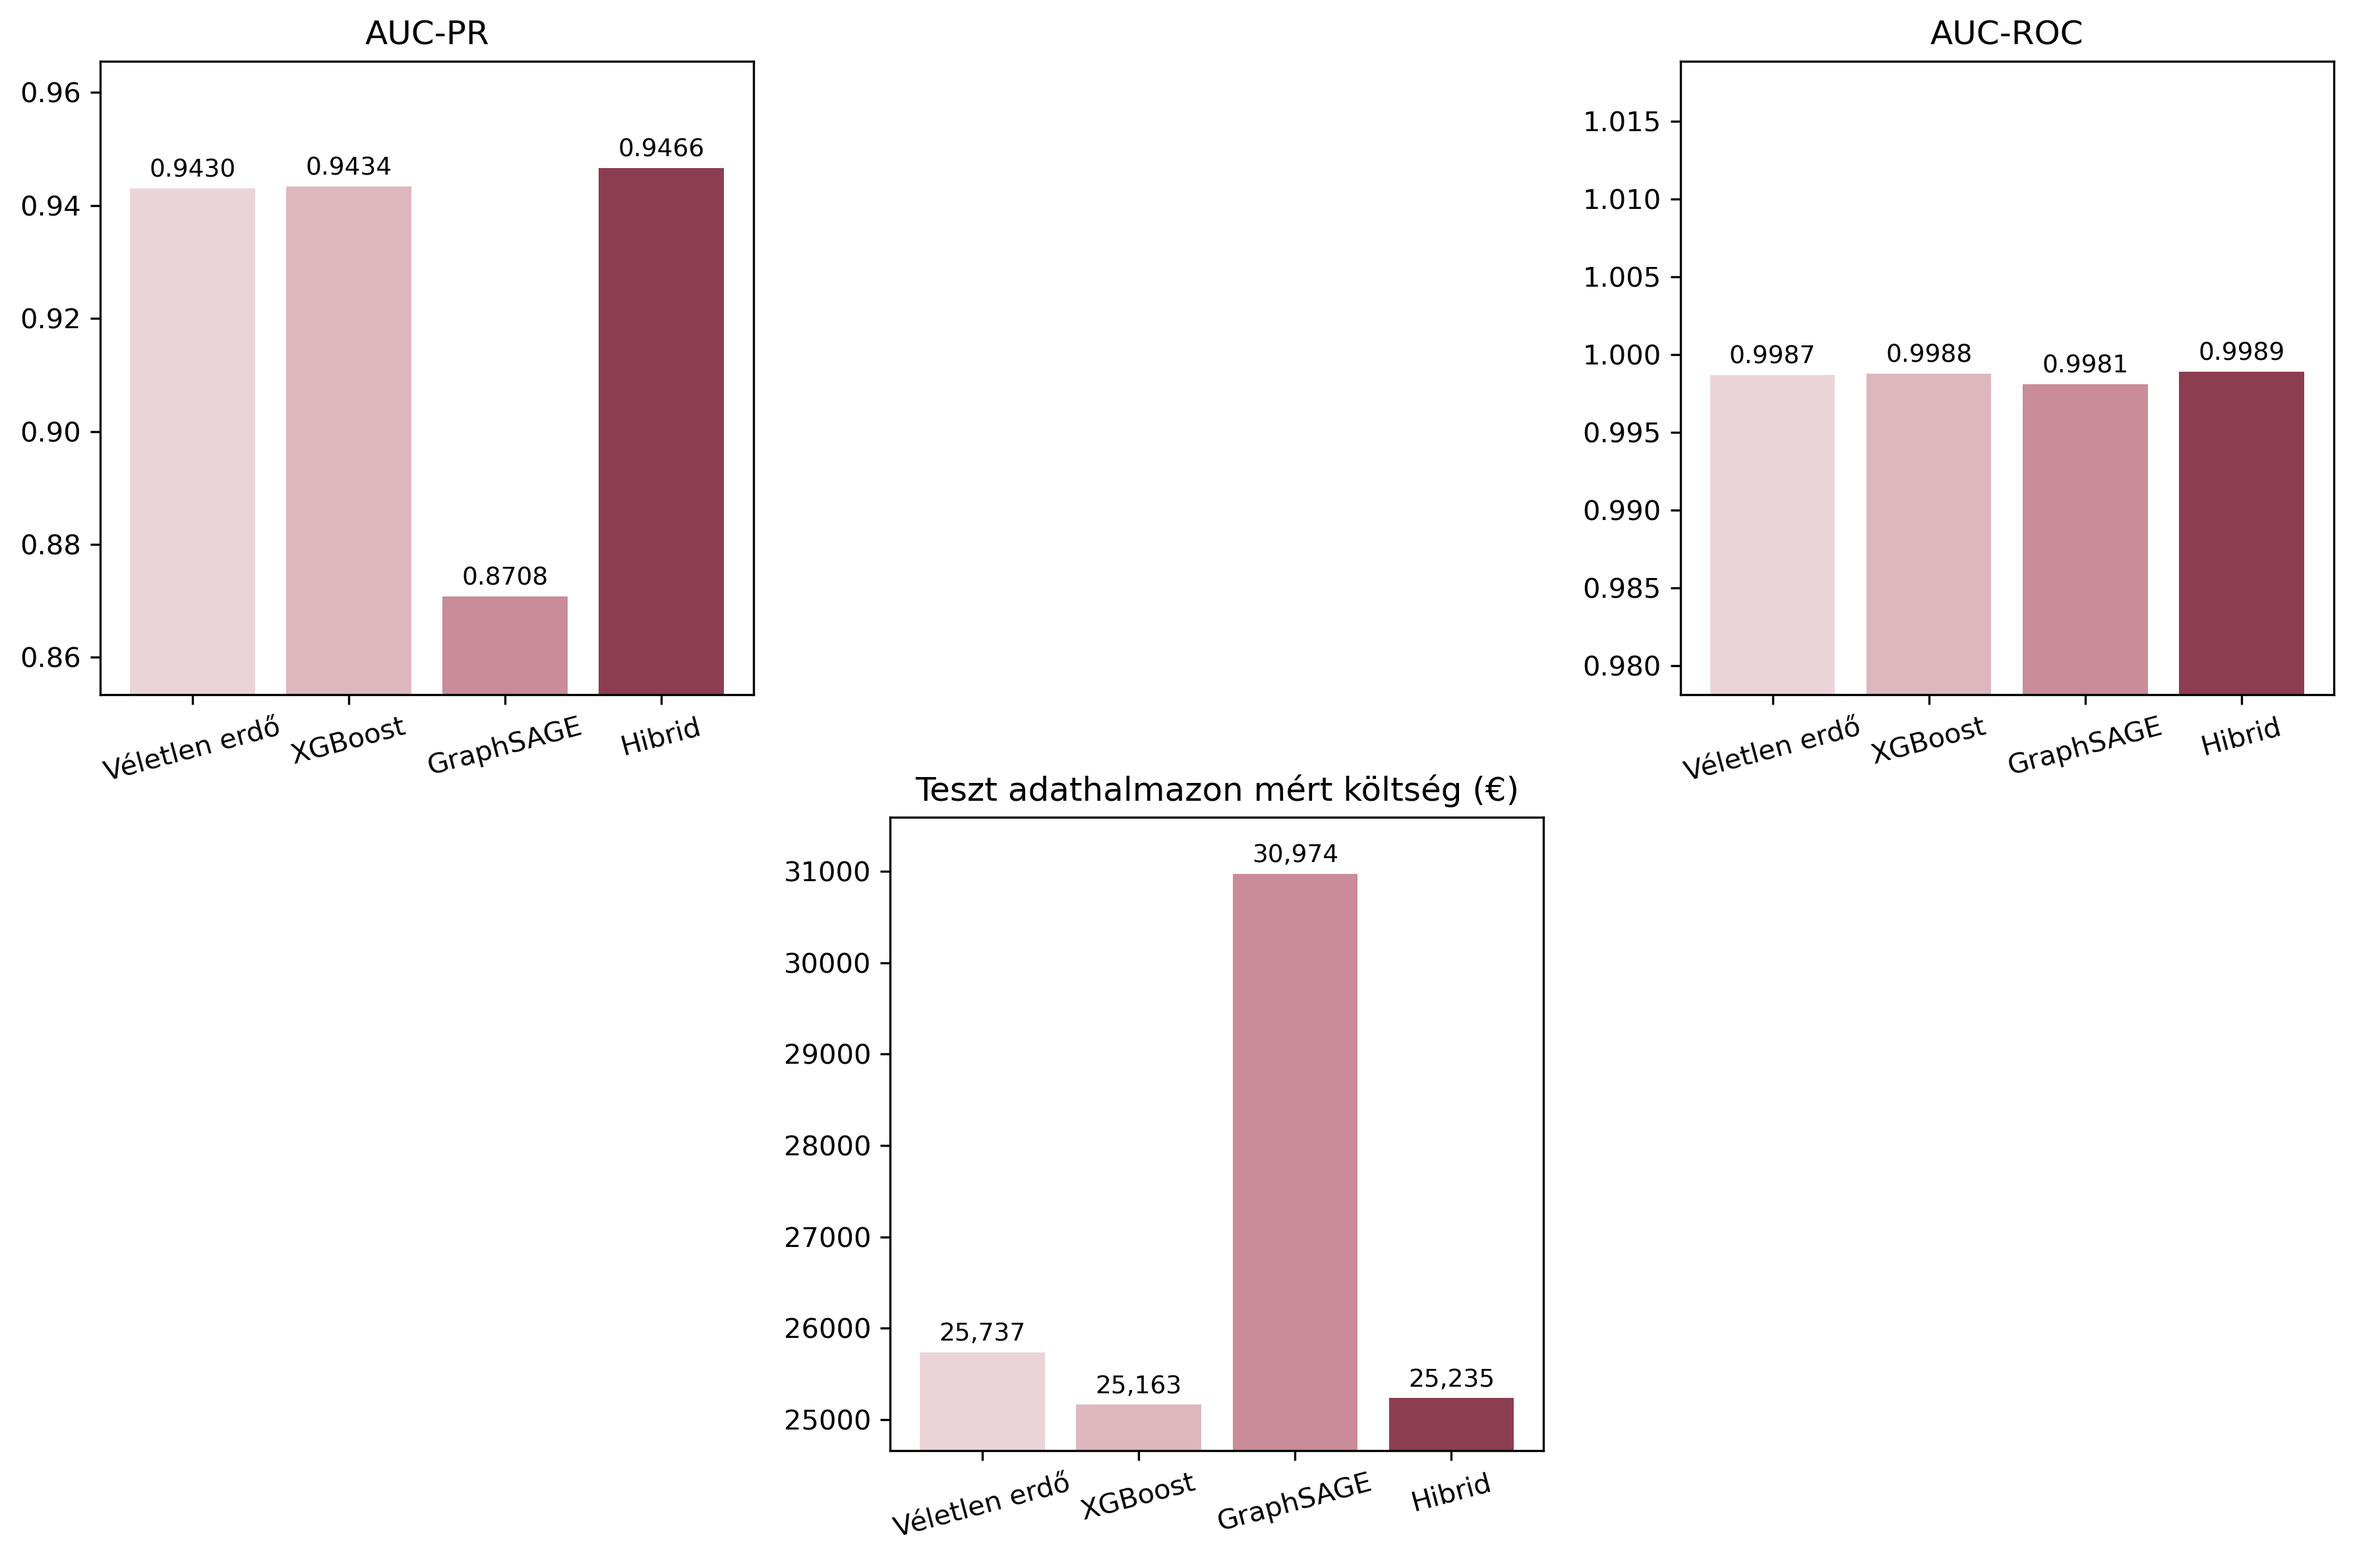
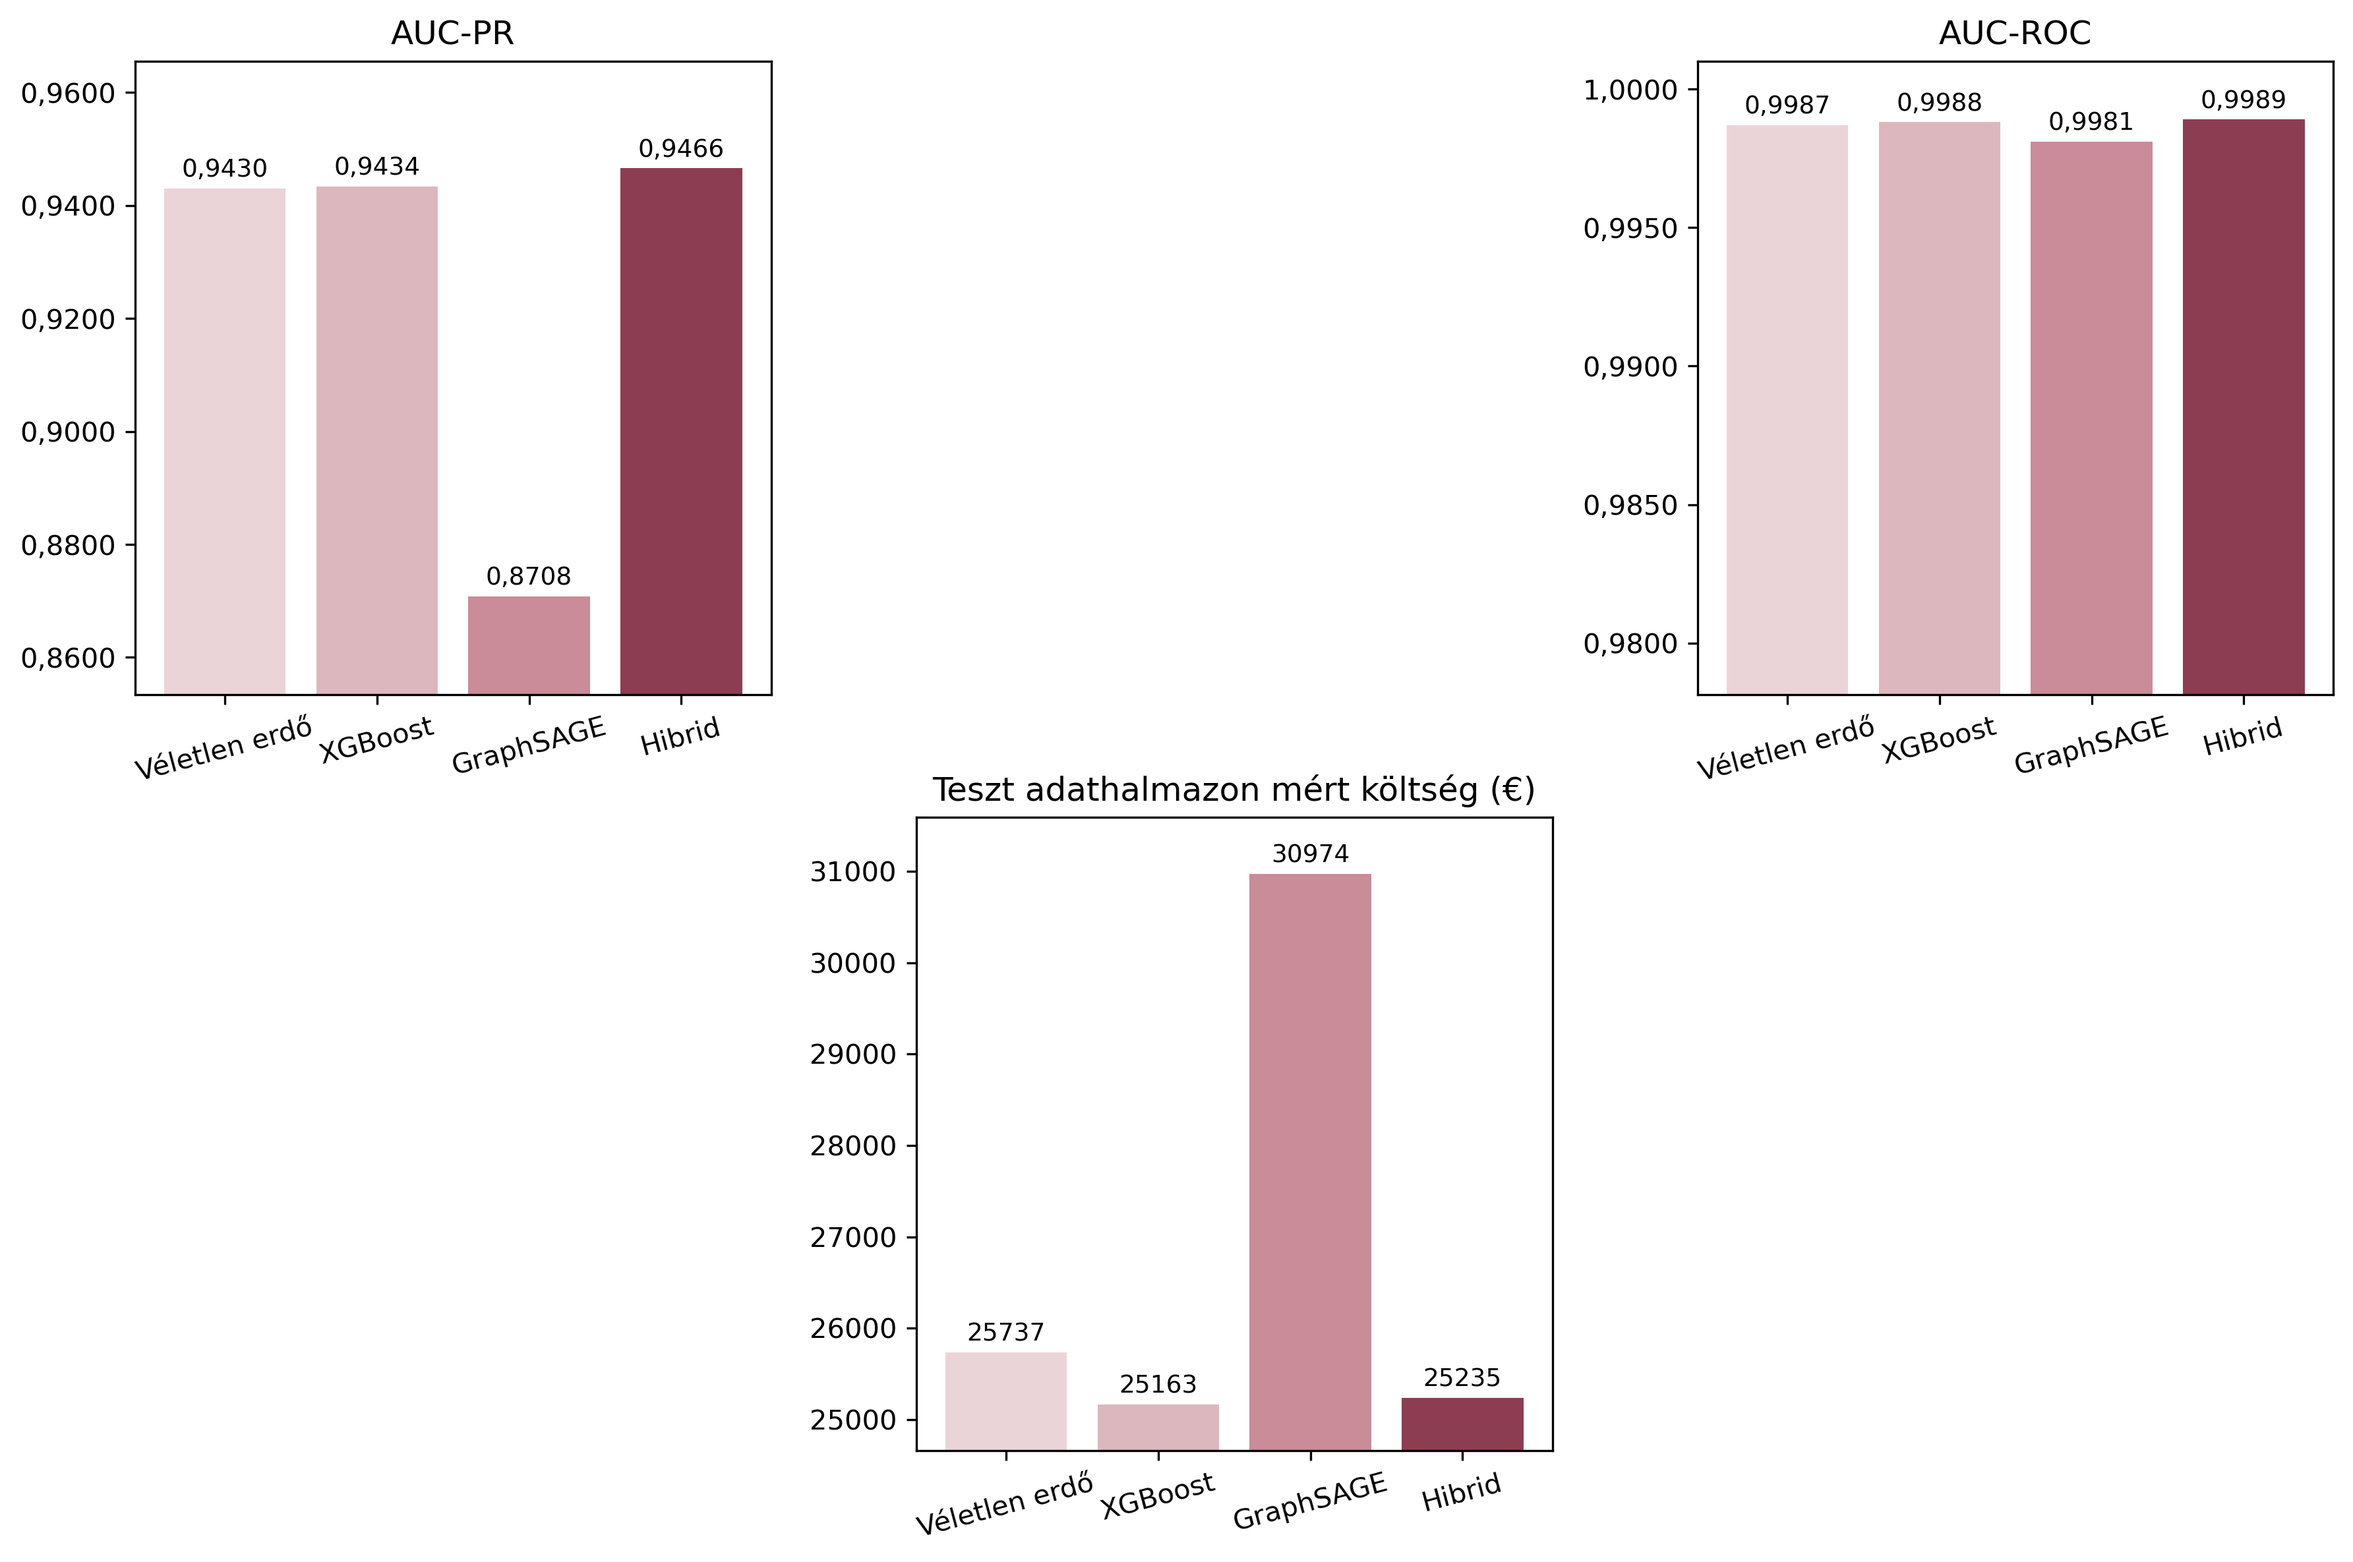
Enhance ROC2.py visualizations with improved y-axis formatting and tick settings for AUC metrics

diff --git a/src/ROC2.py b/src/ROC2.py
@@ -1,5 +1,6 @@
 import matplotlib.pyplot as plt
 from matplotlib.gridspec import GridSpec
+from matplotlib.ticker import FuncFormatter
 
 models = ['Véletlen erdő', 'XGBoost', 'GraphSAGE', 'Hibrid']
 auc_pr  = [0.9430, 0.9434, 0.8708, 0.9466]
@@ -19,22 +20,41 @@ for ax, vals, title, fmt in zip(
     [ax1, ax2, ax3],
     [auc_pr, auc_roc, cost],
     ['AUC-PR', 'AUC-ROC', 'Teszt adathalmazon mért költség (€)'],
-    ['{:.4f}', '{:.4f}', '{:,.0f}']
+    ['{:.4f}', '{:.4f}', '{:.0f}']
 ):
     bars = ax.bar(models, vals, color=colors)
 
     ax.set_title(title)
     ax.tick_params(axis='x', rotation=15)
 
-    ymin = min(vals) * 0.98
-    ymax = max(vals) * 1.02
+    if title == 'AUC-ROC':
+        ymin = min(vals) * 0.98
+        ymax = 1.001
+        ax.set_yticks([0.98, 0.985, 0.99, 0.995, 1.0])
+    else:
+        ymin = min(vals) * 0.98
+        ymax = max(vals) * 1.02
     ax.set_ylim(ymin, ymax)
 
+    if title in ('AUC-PR', 'AUC-ROC'):
+        ax.yaxis.set_major_formatter(
+            FuncFormatter(lambda value, _: f'{value:.4f}'.replace('.', ','))
+        )
+    else:
+        ax.yaxis.set_major_formatter(
+            FuncFormatter(lambda value, _: f'{value:.0f}')
+        )
+
     for bar, v in zip(bars, vals):
+        label = (
+            fmt.format(v).replace('.', ',')
+            if title in ('AUC-PR', 'AUC-ROC')
+            else fmt.format(v)
+        )
         ax.text(
             bar.get_x() + bar.get_width()/2,
             bar.get_height() + (ymax - ymin) * 0.01,
-            fmt.format(v),
+            label,
             ha='center',
             va='bottom',
             fontsize=9
